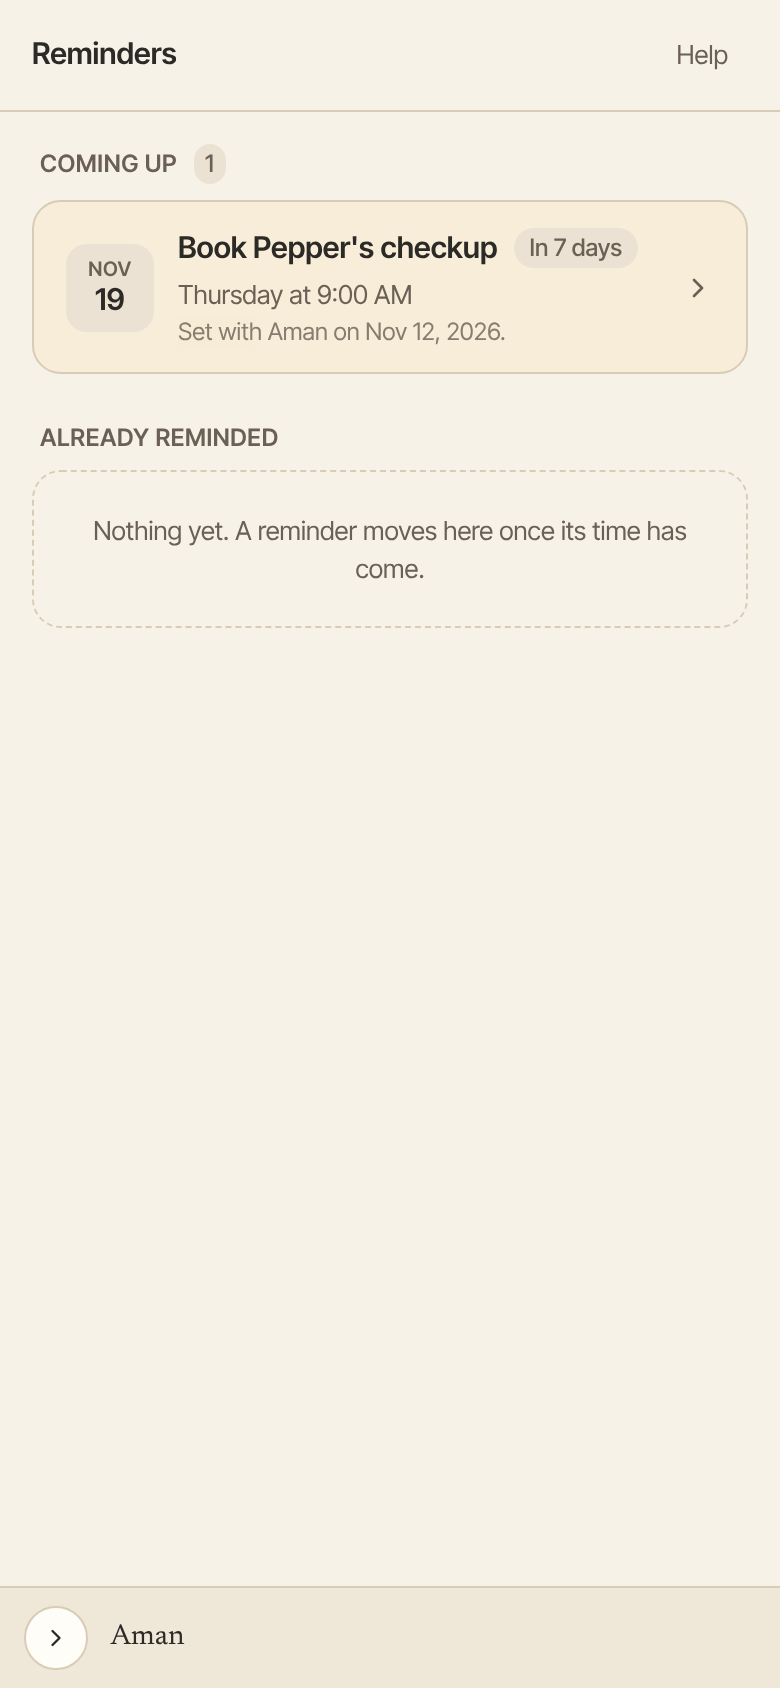
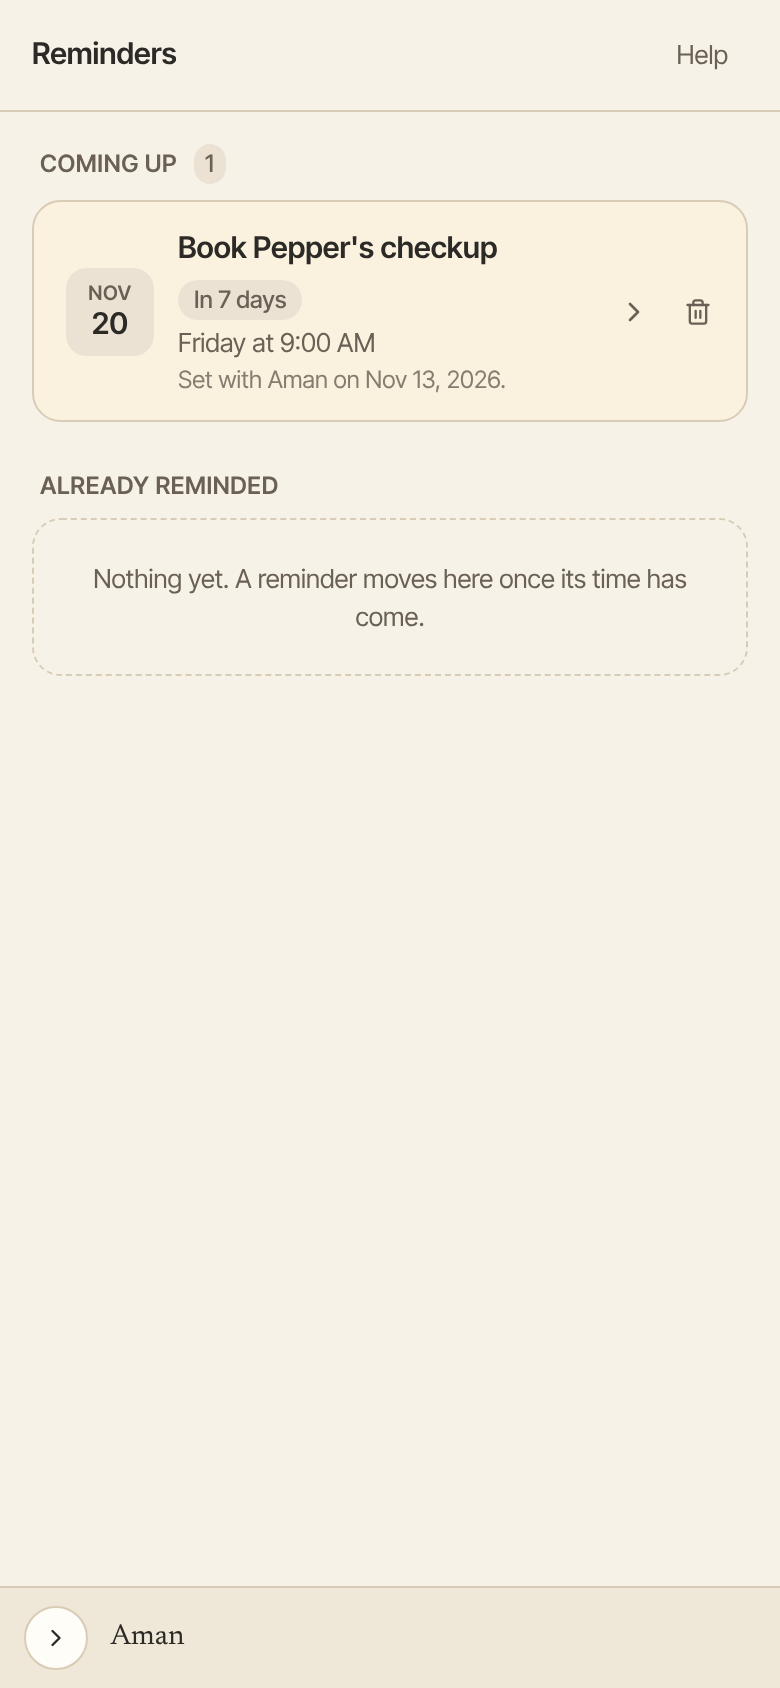
Docs: retake the Reminders page with its delete button
Each reminder row now has a bin to delete it, so the picture and its alt
text show it.

diff --git a/packages/trueforge/src/personas/amanGuide/knowledgePack.generated.ts b/packages/trueforge/src/personas/amanGuide/knowledgePack.generated.ts
@@ -263,7 +263,7 @@ export const AMAN_GUIDE_TOPICS: readonly AmanGuideTopic[] = [
     id: 'reminders',
     title: 'Reminders',
     covers: ['remember', 'route:reminder'],
-    body: 'A reminder is a short note Aman gives you at the time you ask, such as "Remind me at 5 pm to call the pharmacy". It only ever reaches you, so Aman sets it without asking.\n\nHow to get there: In any chat, ask Aman to remind you.\n\n## Set a reminder\n\n1. In any chat, ask with a time, such as "Remind me at 5 pm to call the pharmacy".\n2. Aman sets it. A line in the chat says when it is due and what it says.\n\nNot sure when? Click **Don\'t let me forget** on the new chat screen. Aman asks what you must not forget, suggests a good time, and asks before it sets it.\n\nA reminder can also repeat every day, every weekday, or on the days you choose, such as "Remind me every Monday at 8 am to put the bins out".\n\n## When a reminder is due\n\n- It shows under **For you**, the bell at the top of the left panel. A number on the bell counts what you haven\'t seen. On a phone, tap the menu button to see the bell; that button shows the count too.\n- It also appears at the end of the chat you set it in. If Aman is still answering in that chat, the line waits until the answer ends.\n- That chat shows an unread mark in your chat list until you open it.\n- If you turned on notices, your device shows one too, even when Aman is closed. The notice only says "Reminder". The words open in Aman. You choose how reminders reach you in **Settings**, then **Reach me**. See [Reach me](reach-me.md).\n\n## Use the bell\n\n1. Click the bell at the top of the left panel. It is labeled **For you**. On a phone, tap the menu button first. The **For you** panel opens.\n2. Each item says what it is, when it came, and why you got it.\n3. An item that came from a chat ends with **Open chat**. Click the item to go to that chat.\n4. Click **Mark all seen** to clear the count.\n\n=== "Computer"\n\n    ![The For you panel open from the bell, with a reminder to call the pharmacy](../../../../docs/screenshots/app/reminders-bell-desktop.png)\n\n=== "Phone"\n\n    ![The For you panel open from the bell, with a reminder to call the pharmacy](../../../../docs/screenshots/app/reminders-bell-phone.png)\n\nA reminder whose chat was deleted still shows under the bell. It has no **Open chat** line.\n\n## Turn on notices\n\nAfter you set your first reminder, Aman offers to show notices on this device. Click **Turn on notices**, then allow them when your browser asks. Click **Not now** to skip. Aman offers again with your next reminder.\n\nTo change it later:\n\n1. Click **More** in the left bar, then **Settings**, then **Reach me**.\n2. Under **Notices on this device**, click **Turn on for this device** or **Turn off on this device**.\n\nEach device has its own setting. If the page says notices are not set up on this server, ask the person who runs your Aman to turn them on.\n\n## Mark a reminder urgent\n\nSay so when you ask, such as "Remind me at 5 pm to call the pharmacy, it\'s urgent". An urgent reminder can call you once phone calls are set up and you tick **Call me for reminders I mark urgent** in **Reach me**.\n\n## See, delete or cancel reminders\n\n=== "Computer"\n\n    ![The Reminders page, with a reminder coming up in 7 days and an Open chat link](../../../../docs/screenshots/app/reminders-page-desktop.png)\n\n=== "Phone"\n\n    ![The Reminders page, with a reminder coming up in 7 days and an Open chat link](../../../../docs/screenshots/app/reminders-page-phone.png)\n\n1. Click **Reminders** in the left panel. It lists what is coming up and what has already reminded you, with the persona that set each one. Each reminder shows its day, how far off it is, such as "In 3 weeks", and whether it repeats or is paused. Click a reminder that says **Open chat** to go to the chat you set it in. A reminder says **No chat to open** when its chat was deleted, or when it was set before Aman kept track of the chat. Or, in any chat, ask "What reminders do I have?"\n2. To delete one on that page, click the bin at the end of its row. A box asks you to confirm. Click **Delete** to remove it, or **Cancel** to keep it.\n3. Or ask in a chat, such as "Cancel the pharmacy reminder". A card shows the reminder. Click **Allow** to cancel it, or **Not now** to keep it.\n\nA deleted or canceled reminder is gone for good. A repeating one will not remind you again.\n\n## Good to know\n\n- Reminders don\'t show on the Schedules page. They have their own list under **Reminders** in the left panel.\n- An incognito chat can\'t set or cancel a reminder. Ask in a normal chat.\n- A scheduled run can\'t set a reminder by itself. It holds the reminder for your OK.\n- A reminder costs nothing when it fires. Aman doesn\'t use a model to deliver it.\n- Each reminder that is set or fires is one line under **Settings**, **Audit**.\n\n## Related\n\n- [Schedules](schedules.md)\n- [Calendar](calendar.md)\n- [Your morning brief](daily-brief.md)',
+    body: 'A reminder is a short note Aman gives you at the time you ask, such as "Remind me at 5 pm to call the pharmacy". It only ever reaches you, so Aman sets it without asking.\n\nHow to get there: In any chat, ask Aman to remind you.\n\n## Set a reminder\n\n1. In any chat, ask with a time, such as "Remind me at 5 pm to call the pharmacy".\n2. Aman sets it. A line in the chat says when it is due and what it says.\n\nNot sure when? Click **Don\'t let me forget** on the new chat screen. Aman asks what you must not forget, suggests a good time, and asks before it sets it.\n\nA reminder can also repeat every day, every weekday, or on the days you choose, such as "Remind me every Monday at 8 am to put the bins out".\n\n## When a reminder is due\n\n- It shows under **For you**, the bell at the top of the left panel. A number on the bell counts what you haven\'t seen. On a phone, tap the menu button to see the bell; that button shows the count too.\n- It also appears at the end of the chat you set it in. If Aman is still answering in that chat, the line waits until the answer ends.\n- That chat shows an unread mark in your chat list until you open it.\n- If you turned on notices, your device shows one too, even when Aman is closed. The notice only says "Reminder". The words open in Aman. You choose how reminders reach you in **Settings**, then **Reach me**. See [Reach me](reach-me.md).\n\n## Use the bell\n\n1. Click the bell at the top of the left panel. It is labeled **For you**. On a phone, tap the menu button first. The **For you** panel opens.\n2. Each item says what it is, when it came, and why you got it.\n3. An item that came from a chat ends with **Open chat**. Click the item to go to that chat.\n4. Click **Mark all seen** to clear the count.\n\n=== "Computer"\n\n    ![The For you panel open from the bell, with a reminder to call the pharmacy](../../../../docs/screenshots/app/reminders-bell-desktop.png)\n\n=== "Phone"\n\n    ![The For you panel open from the bell, with a reminder to call the pharmacy](../../../../docs/screenshots/app/reminders-bell-phone.png)\n\nA reminder whose chat was deleted still shows under the bell. It has no **Open chat** line.\n\n## Turn on notices\n\nAfter you set your first reminder, Aman offers to show notices on this device. Click **Turn on notices**, then allow them when your browser asks. Click **Not now** to skip. Aman offers again with your next reminder.\n\nTo change it later:\n\n1. Click **More** in the left bar, then **Settings**, then **Reach me**.\n2. Under **Notices on this device**, click **Turn on for this device** or **Turn off on this device**.\n\nEach device has its own setting. If the page says notices are not set up on this server, ask the person who runs your Aman to turn them on.\n\n## Mark a reminder urgent\n\nSay so when you ask, such as "Remind me at 5 pm to call the pharmacy, it\'s urgent". An urgent reminder can call you once phone calls are set up and you tick **Call me for reminders I mark urgent** in **Reach me**.\n\n## See, delete or cancel reminders\n\n=== "Computer"\n\n    ![The Reminders page, with a reminder coming up in 7 days, a link to its chat and a bin to delete it](../../../../docs/screenshots/app/reminders-page-desktop.png)\n\n=== "Phone"\n\n    ![The Reminders page, with a reminder coming up in 7 days, a link to its chat and a bin to delete it](../../../../docs/screenshots/app/reminders-page-phone.png)\n\n1. Click **Reminders** in the left panel. It lists what is coming up and what has already reminded you, with the persona that set each one. Each reminder shows its day, how far off it is, such as "In 3 weeks", and whether it repeats or is paused. Click a reminder that says **Open chat** to go to the chat you set it in. A reminder says **No chat to open** when its chat was deleted, or when it was set before Aman kept track of the chat. Or, in any chat, ask "What reminders do I have?"\n2. To delete one on that page, click the bin at the end of its row. A box asks you to confirm. Click **Delete** to remove it, or **Cancel** to keep it.\n3. Or ask in a chat, such as "Cancel the pharmacy reminder". A card shows the reminder. Click **Allow** to cancel it, or **Not now** to keep it.\n\nA deleted or canceled reminder is gone for good. A repeating one will not remind you again.\n\n## Good to know\n\n- Reminders don\'t show on the Schedules page. They have their own list under **Reminders** in the left panel.\n- An incognito chat can\'t set or cancel a reminder. Ask in a normal chat.\n- A scheduled run can\'t set a reminder by itself. It holds the reminder for your OK.\n- A reminder costs nothing when it fires. Aman doesn\'t use a model to deliver it.\n- Each reminder that is set or fires is one line under **Settings**, **Audit**.\n\n## Related\n\n- [Schedules](schedules.md)\n- [Calendar](calendar.md)\n- [Your morning brief](daily-brief.md)',
   },
   {
     id: 'schedules',

diff --git a/packages/trueforge/guide/topics/reminders.md b/packages/trueforge/guide/topics/reminders.md
@@ -60,11 +60,11 @@ Say so when you ask, such as "Remind me at 5 pm to call the pharmacy, it's urgen
 
 === "Computer"
 
-    ![The Reminders page, with a reminder coming up in 7 days and an Open chat link](../../../../docs/screenshots/app/reminders-page-desktop.png)
+    ![The Reminders page, with a reminder coming up in 7 days, a link to its chat and a bin to delete it](../../../../docs/screenshots/app/reminders-page-desktop.png)
 
 === "Phone"
 
-    ![The Reminders page, with a reminder coming up in 7 days and an Open chat link](../../../../docs/screenshots/app/reminders-page-phone.png)
+    ![The Reminders page, with a reminder coming up in 7 days, a link to its chat and a bin to delete it](../../../../docs/screenshots/app/reminders-page-phone.png)
 
 1. Click **Reminders** in the left panel. It lists what is coming up and what has already reminded you, with the persona that set each one. Each reminder shows its day, how far off it is, such as "In 3 weeks", and whether it repeats or is paused. Click a reminder that says **Open chat** to go to the chat you set it in. A reminder says **No chat to open** when its chat was deleted, or when it was set before Aman kept track of the chat. Or, in any chat, ask "What reminders do I have?"
 2. To delete one on that page, click the bin at the end of its row. A box asks you to confirm. Click **Delete** to remove it, or **Cancel** to keep it.
